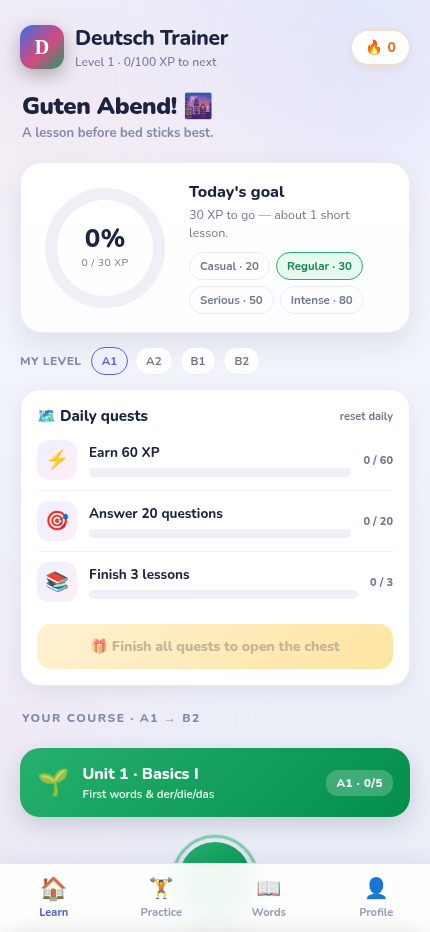
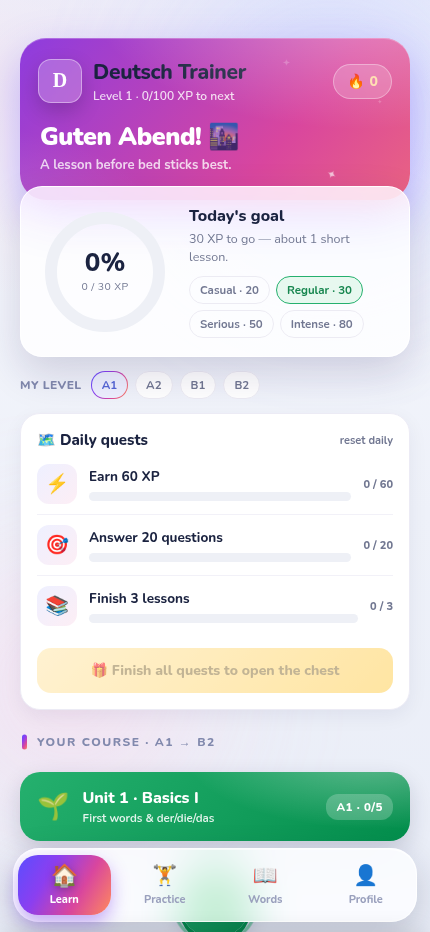
v11: fancy visual layer — gradient hero, glass pill nav, glossy buttons, gradient accents
- Animated gradient hero banner on Learn (glassy logo, greeting, streak, twinkling sparks)
- Goal card is frosted glass overlapping the hero
- Floating glass pill navigation with gradient active tab
- Gradient page titles (clip-text) and gradient accent bars on section titles
- Glossy check/primary buttons with periodic shine sweep; flowing gradient progress bar
- Quiz card gradient top strip; gradient-ring selected options and chips
- Dotted connector line through the course path; glossy unit headers
- Gradient stat numbers on Profile; glowing results trophy; richer aurora background
- SW cache v11

diff --git a/Deutsch_Trainer.html b/Deutsch_Trainer.html
@@ -458,6 +458,103 @@
 
   /* headline numbers use tabular figures for stable count-up */
   .rstat .n,.sumc .n,.ringwrap .center .big{font-variant-numeric:tabular-nums;}
+
+  /* ---------- v11: FANCY layer ---------- */
+  :root{--grad:linear-gradient(120deg,#5b4dff 0%,#8b3ff0 32%,#d9469e 66%,#ff8a5c 100%);}
+
+  /* richer aurora background */
+  body::before{width:420px;height:420px;background:radial-gradient(circle,#b9c4ff,transparent 65%);opacity:.8;}
+  body::after{width:380px;height:380px;background:radial-gradient(circle,#ffd2e9,transparent 65%);opacity:.7;}
+
+  /* gradient hero banner */
+  .herotop{position:relative;margin-top:14px;border-radius:26px;padding:20px 18px 24px;color:#fff;overflow:hidden;
+    background:linear-gradient(130deg,#5b4dff,#7c3aed 35%,#d9469e 72%,#ff8a5c 108%);background-size:220% 220%;
+    animation:heroshift 16s ease infinite;box-shadow:0 18px 44px rgba(93,61,255,.35),inset 0 1px 0 rgba(255,255,255,.25);}
+  @keyframes heroshift{0%,100%{background-position:0% 50%}50%{background-position:100% 50%}}
+  .herotop::before{content:'';position:absolute;inset:0;pointer-events:none;background:
+    radial-gradient(440px 210px at 88% -24%,rgba(255,255,255,.38),transparent 62%),
+    radial-gradient(320px 170px at -12% 118%,rgba(255,255,255,.16),transparent 60%);}
+  .herotop .brand .logo{background:rgba(255,255,255,.22);backdrop-filter:blur(6px);-webkit-backdrop-filter:blur(6px);
+    border:1px solid rgba(255,255,255,.4);box-shadow:0 8px 20px rgba(0,0,0,.18);}
+  .herotop .brand .tag{color:rgba(255,255,255,.82);}
+  .herotop .streakpill{background:rgba(255,255,255,.18);border-color:rgba(255,255,255,.35);color:#ffe0b3;
+    backdrop-filter:blur(6px);-webkit-backdrop-filter:blur(6px);box-shadow:none;}
+  .herotop .greet{margin:16px 2px 2px;color:#fff;font-weight:900;font-size:25px;}
+  .herotop .greet small{color:rgba(255,255,255,.78);}
+  .spark{position:absolute;color:rgba(255,255,255,.85);pointer-events:none;animation:twinkle 3.4s ease-in-out infinite;}
+  .spark.s1{top:16px;right:118px;font-size:13px;}
+  .spark.s2{top:58px;right:26px;font-size:9px;animation-delay:1.1s;}
+  .spark.s3{bottom:18px;right:74px;font-size:11px;animation-delay:2.2s;}
+  @keyframes twinkle{0%,100%{opacity:.25;transform:scale(.7) rotate(0)}50%{opacity:1;transform:scale(1.15) rotate(40deg)}}
+
+  /* frosted goal card overlapping the hero */
+  .goalcard{margin-top:-14px;position:relative;z-index:2;background:rgba(255,255,255,.82);
+    backdrop-filter:blur(16px) saturate(1.3);-webkit-backdrop-filter:blur(16px) saturate(1.3);
+    border:1px solid rgba(255,255,255,.95);box-shadow:0 16px 40px rgba(30,20,80,.16);}
+
+  /* gradient-accented section titles & page titles */
+  .sec-title{position:relative;padding-left:15px;}
+  .sec-title::before{content:'';position:absolute;left:0;top:50%;transform:translateY(-50%);
+    width:5px;height:15px;border-radius:3px;background:var(--grad);}
+  .stats h2.page,.practice h2.page,.words h2.page{font-size:27px;font-weight:900;letter-spacing:-.5px;
+    background:linear-gradient(120deg,#332e7a,#7c3aed 45%,#d9469e 85%);
+    -webkit-background-clip:text;background-clip:text;color:transparent;-webkit-text-fill-color:transparent;
+    display:inline-block;}
+
+  /* floating glass pill navigation */
+  .nav{left:50%;right:auto;transform:translateX(-50%);width:calc(100% - 26px);max-width:494px;
+    bottom:calc(10px + env(safe-area-inset-bottom));border-radius:26px;border:1px solid rgba(255,255,255,.85);
+    background:rgba(255,255,255,.78);backdrop-filter:blur(20px) saturate(1.5);-webkit-backdrop-filter:blur(20px) saturate(1.5);
+    box-shadow:0 12px 36px rgba(20,24,60,.20),inset 0 1px 0 rgba(255,255,255,.7);padding:0;}
+  .nav button{margin:6px 4px;border-radius:20px;padding:7px 0 8px;transition:color .18s,background .18s,box-shadow .18s;}
+  .nav button.on{background:var(--grad);color:#fff;box-shadow:0 8px 18px rgba(124,58,237,.42);}
+  .nav button.on .ni{transform:scale(1.1);filter:drop-shadow(0 2px 4px rgba(0,0,0,.25));}
+  .scroll{padding-bottom:118px;}
+
+  /* glossy action buttons with shine sweep */
+  .btn-check,.btn-primary,.chest{position:relative;overflow:hidden;}
+  .btn-check{box-shadow:0 5px 0 #3f4bb0,0 14px 30px rgba(85,102,214,.35),inset 0 1px 0 rgba(255,255,255,.3);}
+  .btn-primary{box-shadow:0 5px 0 var(--okd),0 14px 30px rgba(37,176,110,.35),inset 0 1px 0 rgba(255,255,255,.3);}
+  .btn-check:not(:disabled)::after,.btn-primary::after{content:'';position:absolute;top:0;left:-70%;width:42%;height:100%;
+    background:linear-gradient(100deg,transparent,rgba(255,255,255,.5),transparent);transform:skewX(-20deg);
+    animation:btnshine 3.4s ease infinite;}
+  @keyframes btnshine{0%,55%{left:-70%}90%,100%{left:140%}}
+
+  /* quiz: gradient top strip + flowing progress */
+  .card{border:1px solid rgba(255,255,255,.9);}
+  .card::before{content:'';position:absolute;top:0;left:24px;right:24px;height:4px;border-radius:0 0 4px 4px;background:var(--grad);opacity:.85;}
+  .card{position:relative;}
+  .pfill{background:var(--grad);background-size:220% 100%;animation:pflow 3s linear infinite;}
+  @keyframes pflow{to{background-position:220% 0}}
+  .opt.sel{border-color:transparent;background:linear-gradient(#f3f4ff,#f3f4ff) padding-box,var(--grad) border-box;}
+
+  /* course: dotted connector through the path + glossy unit headers */
+  .upath{position:relative;}
+  .upath::before{content:'';position:absolute;top:20px;bottom:28px;left:50%;width:3px;transform:translateX(-50%);
+    background:repeating-linear-gradient(180deg,#d3d7ee 0 9px,transparent 9px 19px);border-radius:2px;}
+  .unode{z-index:1;}
+  .unithead{position:relative;overflow:hidden;}
+  .unithead::after{content:'';position:absolute;inset:0;pointer-events:none;
+    background:radial-gradient(320px 130px at 92% -34%,rgba(255,255,255,.38),transparent 62%);}
+
+  /* stats: gradient stat numbers, glass panels */
+  .sumc .n{background:linear-gradient(120deg,#4338ca,#8b3ff0);-webkit-background-clip:text;background-clip:text;
+    color:transparent;-webkit-text-fill-color:transparent;}
+  .sumc.gold .n{background:linear-gradient(120deg,#d97706,#f59e0b);-webkit-background-clip:text;background-clip:text;}
+  .sumc.orange .n{background:linear-gradient(120deg,#ea580c,#fb923c);-webkit-background-clip:text;background-clip:text;}
+  .sumc.green .n{background:linear-gradient(120deg,#0f8a55,#2dd486);-webkit-background-clip:text;background-clip:text;}
+  .levbadge{background:var(--grad);}
+  .brand .logo{background:linear-gradient(135deg,#5b4dff,#d9469e 60%,#ff8a5c);}
+
+  /* results: glowing trophy */
+  .results .trophy{filter:drop-shadow(0 14px 30px rgba(245,176,39,.45));}
+
+  /* feedback sheet: gradient hairline on top */
+  .sheet{border-top:1px solid rgba(255,255,255,.8);}
+
+  /* level select chips get a gradient ring when active */
+  .levselect .gchip.on,.wchip.on{border-color:transparent;
+    background:linear-gradient(#eef0ff,#eef0ff) padding-box,var(--grad) border-box;}
   /* if animations are disabled (reduced motion), elements that rely on an
      entrance animation must still end up visible */
   @media (prefers-reduced-motion: reduce){
@@ -471,13 +568,15 @@
 
   <!-- ============ HOME (LEARN) ============ -->
   <div class="home scroll" id="home">
-    <div class="brand">
-      <div class="logo serif">D</div>
-      <div><h1>Deutsch Trainer</h1><div class="tag" id="brandTag">Grammar &amp; vocabulary · A1 → B2</div></div>
-      <div class="streakpill" id="streakPill"><span class="fl">🔥</span> <span id="dayStreak">0</span></div>
+    <div class="herotop">
+      <div class="brand">
+        <div class="logo serif">D</div>
+        <div><h1>Deutsch Trainer</h1><div class="tag" id="brandTag">Grammar &amp; vocabulary · A1 → B2</div></div>
+        <div class="streakpill" id="streakPill"><span class="fl">🔥</span> <span id="dayStreak">0</span></div>
+      </div>
+      <h2 class="greet" id="greet"></h2>
+      <span class="spark s1">✦</span><span class="spark s2">✦</span><span class="spark s3">✦</span>
     </div>
-
-    <h2 class="greet" id="greet"></h2>
 
     <div class="goalcard">
       <div class="ringwrap" id="ringwrap">

diff --git a/index.html b/index.html
@@ -458,6 +458,103 @@
 
   /* headline numbers use tabular figures for stable count-up */
   .rstat .n,.sumc .n,.ringwrap .center .big{font-variant-numeric:tabular-nums;}
+
+  /* ---------- v11: FANCY layer ---------- */
+  :root{--grad:linear-gradient(120deg,#5b4dff 0%,#8b3ff0 32%,#d9469e 66%,#ff8a5c 100%);}
+
+  /* richer aurora background */
+  body::before{width:420px;height:420px;background:radial-gradient(circle,#b9c4ff,transparent 65%);opacity:.8;}
+  body::after{width:380px;height:380px;background:radial-gradient(circle,#ffd2e9,transparent 65%);opacity:.7;}
+
+  /* gradient hero banner */
+  .herotop{position:relative;margin-top:14px;border-radius:26px;padding:20px 18px 24px;color:#fff;overflow:hidden;
+    background:linear-gradient(130deg,#5b4dff,#7c3aed 35%,#d9469e 72%,#ff8a5c 108%);background-size:220% 220%;
+    animation:heroshift 16s ease infinite;box-shadow:0 18px 44px rgba(93,61,255,.35),inset 0 1px 0 rgba(255,255,255,.25);}
+  @keyframes heroshift{0%,100%{background-position:0% 50%}50%{background-position:100% 50%}}
+  .herotop::before{content:'';position:absolute;inset:0;pointer-events:none;background:
+    radial-gradient(440px 210px at 88% -24%,rgba(255,255,255,.38),transparent 62%),
+    radial-gradient(320px 170px at -12% 118%,rgba(255,255,255,.16),transparent 60%);}
+  .herotop .brand .logo{background:rgba(255,255,255,.22);backdrop-filter:blur(6px);-webkit-backdrop-filter:blur(6px);
+    border:1px solid rgba(255,255,255,.4);box-shadow:0 8px 20px rgba(0,0,0,.18);}
+  .herotop .brand .tag{color:rgba(255,255,255,.82);}
+  .herotop .streakpill{background:rgba(255,255,255,.18);border-color:rgba(255,255,255,.35);color:#ffe0b3;
+    backdrop-filter:blur(6px);-webkit-backdrop-filter:blur(6px);box-shadow:none;}
+  .herotop .greet{margin:16px 2px 2px;color:#fff;font-weight:900;font-size:25px;}
+  .herotop .greet small{color:rgba(255,255,255,.78);}
+  .spark{position:absolute;color:rgba(255,255,255,.85);pointer-events:none;animation:twinkle 3.4s ease-in-out infinite;}
+  .spark.s1{top:16px;right:118px;font-size:13px;}
+  .spark.s2{top:58px;right:26px;font-size:9px;animation-delay:1.1s;}
+  .spark.s3{bottom:18px;right:74px;font-size:11px;animation-delay:2.2s;}
+  @keyframes twinkle{0%,100%{opacity:.25;transform:scale(.7) rotate(0)}50%{opacity:1;transform:scale(1.15) rotate(40deg)}}
+
+  /* frosted goal card overlapping the hero */
+  .goalcard{margin-top:-14px;position:relative;z-index:2;background:rgba(255,255,255,.82);
+    backdrop-filter:blur(16px) saturate(1.3);-webkit-backdrop-filter:blur(16px) saturate(1.3);
+    border:1px solid rgba(255,255,255,.95);box-shadow:0 16px 40px rgba(30,20,80,.16);}
+
+  /* gradient-accented section titles & page titles */
+  .sec-title{position:relative;padding-left:15px;}
+  .sec-title::before{content:'';position:absolute;left:0;top:50%;transform:translateY(-50%);
+    width:5px;height:15px;border-radius:3px;background:var(--grad);}
+  .stats h2.page,.practice h2.page,.words h2.page{font-size:27px;font-weight:900;letter-spacing:-.5px;
+    background:linear-gradient(120deg,#332e7a,#7c3aed 45%,#d9469e 85%);
+    -webkit-background-clip:text;background-clip:text;color:transparent;-webkit-text-fill-color:transparent;
+    display:inline-block;}
+
+  /* floating glass pill navigation */
+  .nav{left:50%;right:auto;transform:translateX(-50%);width:calc(100% - 26px);max-width:494px;
+    bottom:calc(10px + env(safe-area-inset-bottom));border-radius:26px;border:1px solid rgba(255,255,255,.85);
+    background:rgba(255,255,255,.78);backdrop-filter:blur(20px) saturate(1.5);-webkit-backdrop-filter:blur(20px) saturate(1.5);
+    box-shadow:0 12px 36px rgba(20,24,60,.20),inset 0 1px 0 rgba(255,255,255,.7);padding:0;}
+  .nav button{margin:6px 4px;border-radius:20px;padding:7px 0 8px;transition:color .18s,background .18s,box-shadow .18s;}
+  .nav button.on{background:var(--grad);color:#fff;box-shadow:0 8px 18px rgba(124,58,237,.42);}
+  .nav button.on .ni{transform:scale(1.1);filter:drop-shadow(0 2px 4px rgba(0,0,0,.25));}
+  .scroll{padding-bottom:118px;}
+
+  /* glossy action buttons with shine sweep */
+  .btn-check,.btn-primary,.chest{position:relative;overflow:hidden;}
+  .btn-check{box-shadow:0 5px 0 #3f4bb0,0 14px 30px rgba(85,102,214,.35),inset 0 1px 0 rgba(255,255,255,.3);}
+  .btn-primary{box-shadow:0 5px 0 var(--okd),0 14px 30px rgba(37,176,110,.35),inset 0 1px 0 rgba(255,255,255,.3);}
+  .btn-check:not(:disabled)::after,.btn-primary::after{content:'';position:absolute;top:0;left:-70%;width:42%;height:100%;
+    background:linear-gradient(100deg,transparent,rgba(255,255,255,.5),transparent);transform:skewX(-20deg);
+    animation:btnshine 3.4s ease infinite;}
+  @keyframes btnshine{0%,55%{left:-70%}90%,100%{left:140%}}
+
+  /* quiz: gradient top strip + flowing progress */
+  .card{border:1px solid rgba(255,255,255,.9);}
+  .card::before{content:'';position:absolute;top:0;left:24px;right:24px;height:4px;border-radius:0 0 4px 4px;background:var(--grad);opacity:.85;}
+  .card{position:relative;}
+  .pfill{background:var(--grad);background-size:220% 100%;animation:pflow 3s linear infinite;}
+  @keyframes pflow{to{background-position:220% 0}}
+  .opt.sel{border-color:transparent;background:linear-gradient(#f3f4ff,#f3f4ff) padding-box,var(--grad) border-box;}
+
+  /* course: dotted connector through the path + glossy unit headers */
+  .upath{position:relative;}
+  .upath::before{content:'';position:absolute;top:20px;bottom:28px;left:50%;width:3px;transform:translateX(-50%);
+    background:repeating-linear-gradient(180deg,#d3d7ee 0 9px,transparent 9px 19px);border-radius:2px;}
+  .unode{z-index:1;}
+  .unithead{position:relative;overflow:hidden;}
+  .unithead::after{content:'';position:absolute;inset:0;pointer-events:none;
+    background:radial-gradient(320px 130px at 92% -34%,rgba(255,255,255,.38),transparent 62%);}
+
+  /* stats: gradient stat numbers, glass panels */
+  .sumc .n{background:linear-gradient(120deg,#4338ca,#8b3ff0);-webkit-background-clip:text;background-clip:text;
+    color:transparent;-webkit-text-fill-color:transparent;}
+  .sumc.gold .n{background:linear-gradient(120deg,#d97706,#f59e0b);-webkit-background-clip:text;background-clip:text;}
+  .sumc.orange .n{background:linear-gradient(120deg,#ea580c,#fb923c);-webkit-background-clip:text;background-clip:text;}
+  .sumc.green .n{background:linear-gradient(120deg,#0f8a55,#2dd486);-webkit-background-clip:text;background-clip:text;}
+  .levbadge{background:var(--grad);}
+  .brand .logo{background:linear-gradient(135deg,#5b4dff,#d9469e 60%,#ff8a5c);}
+
+  /* results: glowing trophy */
+  .results .trophy{filter:drop-shadow(0 14px 30px rgba(245,176,39,.45));}
+
+  /* feedback sheet: gradient hairline on top */
+  .sheet{border-top:1px solid rgba(255,255,255,.8);}
+
+  /* level select chips get a gradient ring when active */
+  .levselect .gchip.on,.wchip.on{border-color:transparent;
+    background:linear-gradient(#eef0ff,#eef0ff) padding-box,var(--grad) border-box;}
   /* if animations are disabled (reduced motion), elements that rely on an
      entrance animation must still end up visible */
   @media (prefers-reduced-motion: reduce){
@@ -471,13 +568,15 @@
 
   <!-- ============ HOME (LEARN) ============ -->
   <div class="home scroll" id="home">
-    <div class="brand">
-      <div class="logo serif">D</div>
-      <div><h1>Deutsch Trainer</h1><div class="tag" id="brandTag">Grammar &amp; vocabulary · A1 → B2</div></div>
-      <div class="streakpill" id="streakPill"><span class="fl">🔥</span> <span id="dayStreak">0</span></div>
+    <div class="herotop">
+      <div class="brand">
+        <div class="logo serif">D</div>
+        <div><h1>Deutsch Trainer</h1><div class="tag" id="brandTag">Grammar &amp; vocabulary · A1 → B2</div></div>
+        <div class="streakpill" id="streakPill"><span class="fl">🔥</span> <span id="dayStreak">0</span></div>
+      </div>
+      <h2 class="greet" id="greet"></h2>
+      <span class="spark s1">✦</span><span class="spark s2">✦</span><span class="spark s3">✦</span>
     </div>
-
-    <h2 class="greet" id="greet"></h2>
 
     <div class="goalcard">
       <div class="ringwrap" id="ringwrap">

diff --git a/sw.js b/sw.js
@@ -1,5 +1,5 @@
 /* Deutsch Trainer service worker — offline caching */
-const CACHE = 'deutsch-trainer-v10';
+const CACHE = 'deutsch-trainer-v11';
 const ASSETS = [
   './',
   './index.html',